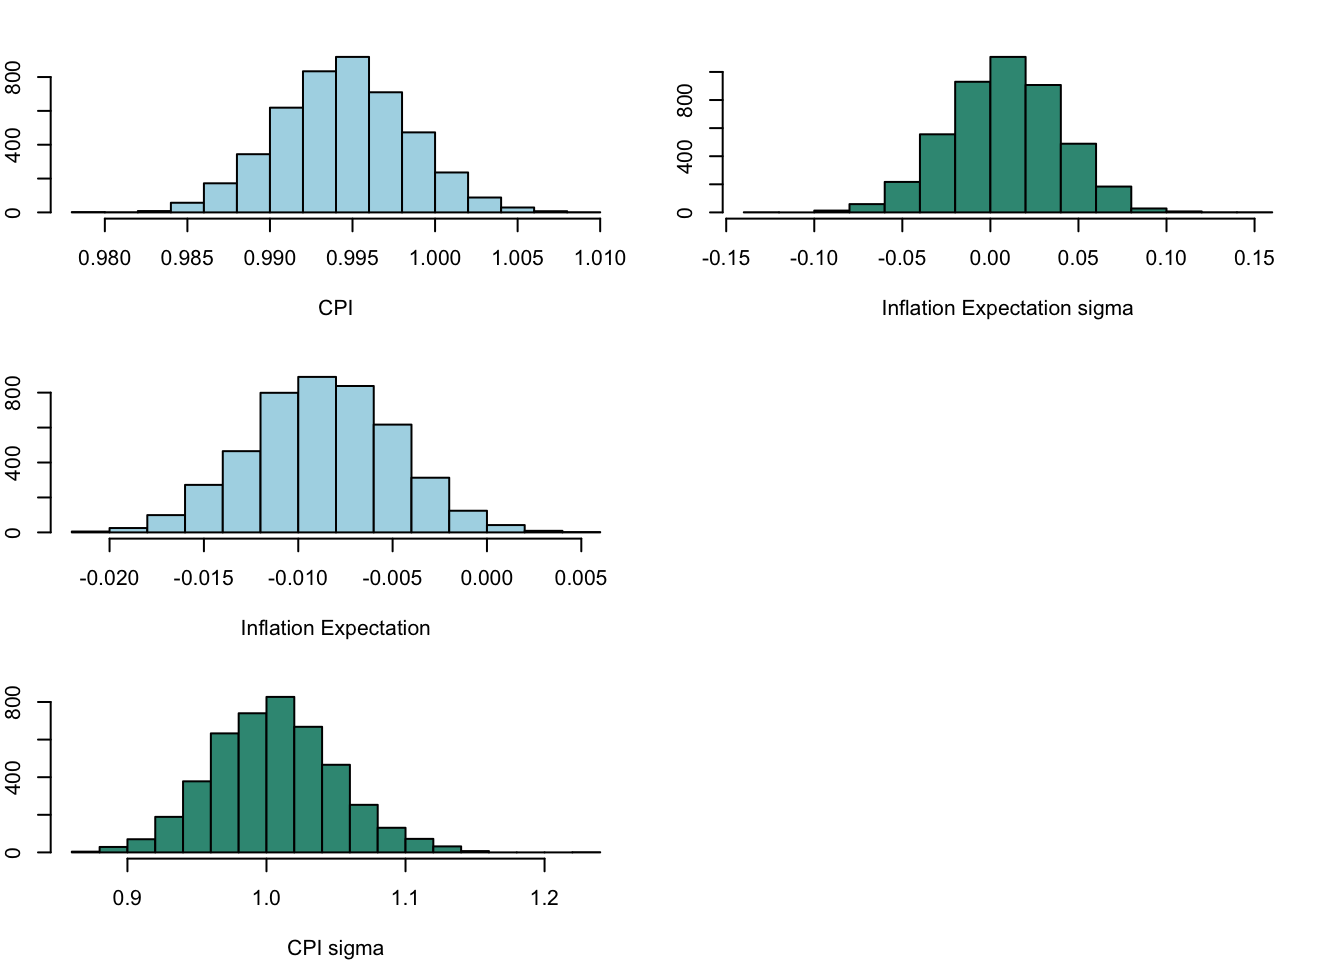
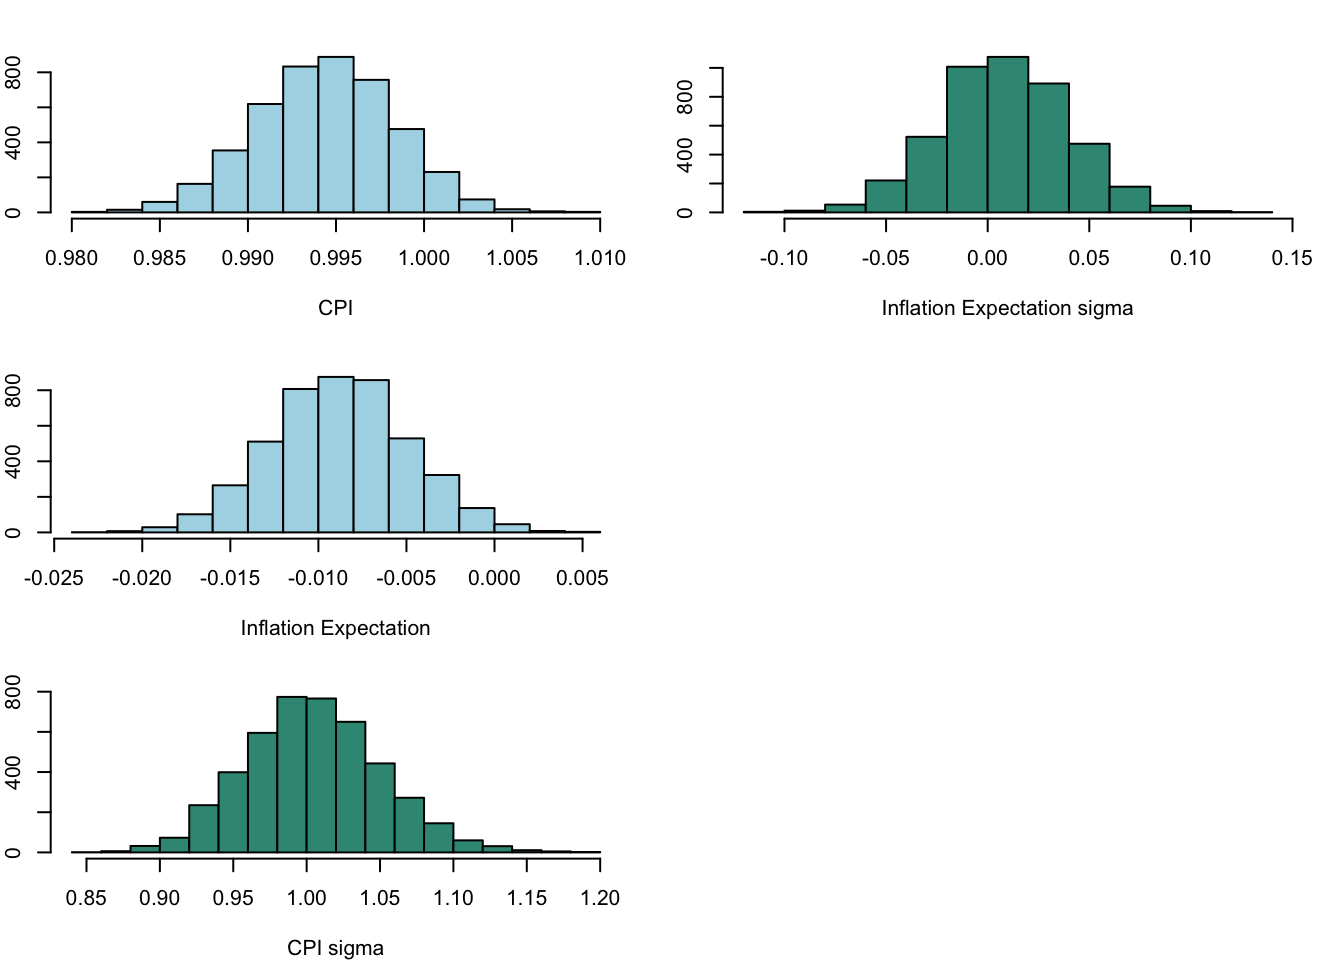
update simulation

diff --git a/docs/index.html b/docs/index.html
@@ -467,7 +467,7 @@ X=\begin{bmatrix}
 \]</span></p>
 <p><span class="math display">\[
 A = \begin{bmatrix}
-\mu_{lcpi} &amp; \mu_{gold} &amp; \ldots &amp; \mu_{lexr} \\
+\mu_{lcpi} &amp; \mu_{infexp} &amp; \ldots &amp; \mu_{lexr} \\
 A_{1,lcpi}^{(1)} &amp; A_{1,infexp}^{(1)} &amp; \ldots &amp; A_{1,exr}^{(1)} \\
 A_{2,lpci}^{(1)} &amp; A_{2,infexp}^{(1)} &amp; \ldots &amp; A_{2,exr}^{(1)} \\
 \vdots  &amp; \vdots  &amp; \ddots &amp; \vdots  \\
@@ -645,17 +645,25 @@ X_{t} \\ Y_{t}
 <thead>
 <tr class="header">
 <th data-quarto-table-cell-role="th" style="text-align: center; position: sticky; top: 0; background-color: #FFFFFF;"></th>
-<th data-quarto-table-cell-role="th" style="text-align: center; position: sticky; top: 0; background-color: #FFFFFF;">Simulation Parameter</th>
+<th data-quarto-table-cell-role="th" style="text-align: center; position: sticky; top: 0; background-color: #FFFFFF;">Simulation Parameter e1</th>
+<th data-quarto-table-cell-role="th" style="text-align: center; position: sticky; top: 0; background-color: #FFFFFF;">Simulation Parameter e2</th>
 </tr>
 </thead>
 <tbody>
 <tr class="odd">
 <td style="text-align: center;">Constant term</td>
-<td style="text-align: center;">-0.070200</td>
+<td style="text-align: center;">-0.1097</td>
+<td style="text-align: center;">-0.0349</td>
 </tr>
 <tr class="even">
-<td style="text-align: center;">1 lag</td>
-<td style="text-align: center;">0.995445</td>
+<td style="text-align: center;">First Lag</td>
+<td style="text-align: center;">0.9944</td>
+<td style="text-align: center;">-0.0087</td>
+</tr>
+<tr class="odd">
+<td style="text-align: center;"></td>
+<td style="text-align: center;">-0.0009</td>
+<td style="text-align: center;">0.9921</td>
 </tr>
 </tbody>
 </table>
@@ -861,17 +869,25 @@ p(x|a,b,p) \propto x^{p-1}exp \left\{\frac{-(ax+\frac{b}{x})}{2} \right\}
 <thead>
 <tr class="header">
 <th data-quarto-table-cell-role="th" style="text-align: center; position: sticky; top: 0; background-color: #FFFFFF;"></th>
-<th data-quarto-table-cell-role="th" style="text-align: center; position: sticky; top: 0; background-color: #FFFFFF;">Simulation Parameter</th>
+<th data-quarto-table-cell-role="th" style="text-align: center; position: sticky; top: 0; background-color: #FFFFFF;">Simulation Parameter e1</th>
+<th data-quarto-table-cell-role="th" style="text-align: center; position: sticky; top: 0; background-color: #FFFFFF;">Simulation Parameter e2</th>
 </tr>
 </thead>
 <tbody>
 <tr class="odd">
 <td style="text-align: center;">Constant term</td>
-<td style="text-align: center;">-0.10790</td>
+<td style="text-align: center;">-0.1103</td>
+<td style="text-align: center;">-0.0338</td>
 </tr>
 <tr class="even">
-<td style="text-align: center;">1 lag</td>
-<td style="text-align: center;">0.99433</td>
+<td style="text-align: center;">First Lag</td>
+<td style="text-align: center;">0.9944</td>
+<td style="text-align: center;">-0.0088</td>
+</tr>
+<tr class="odd">
+<td style="text-align: center;"></td>
+<td style="text-align: center;">-0.0009</td>
+<td style="text-align: center;">0.9920</td>
 </tr>
 </tbody>
 </table>
